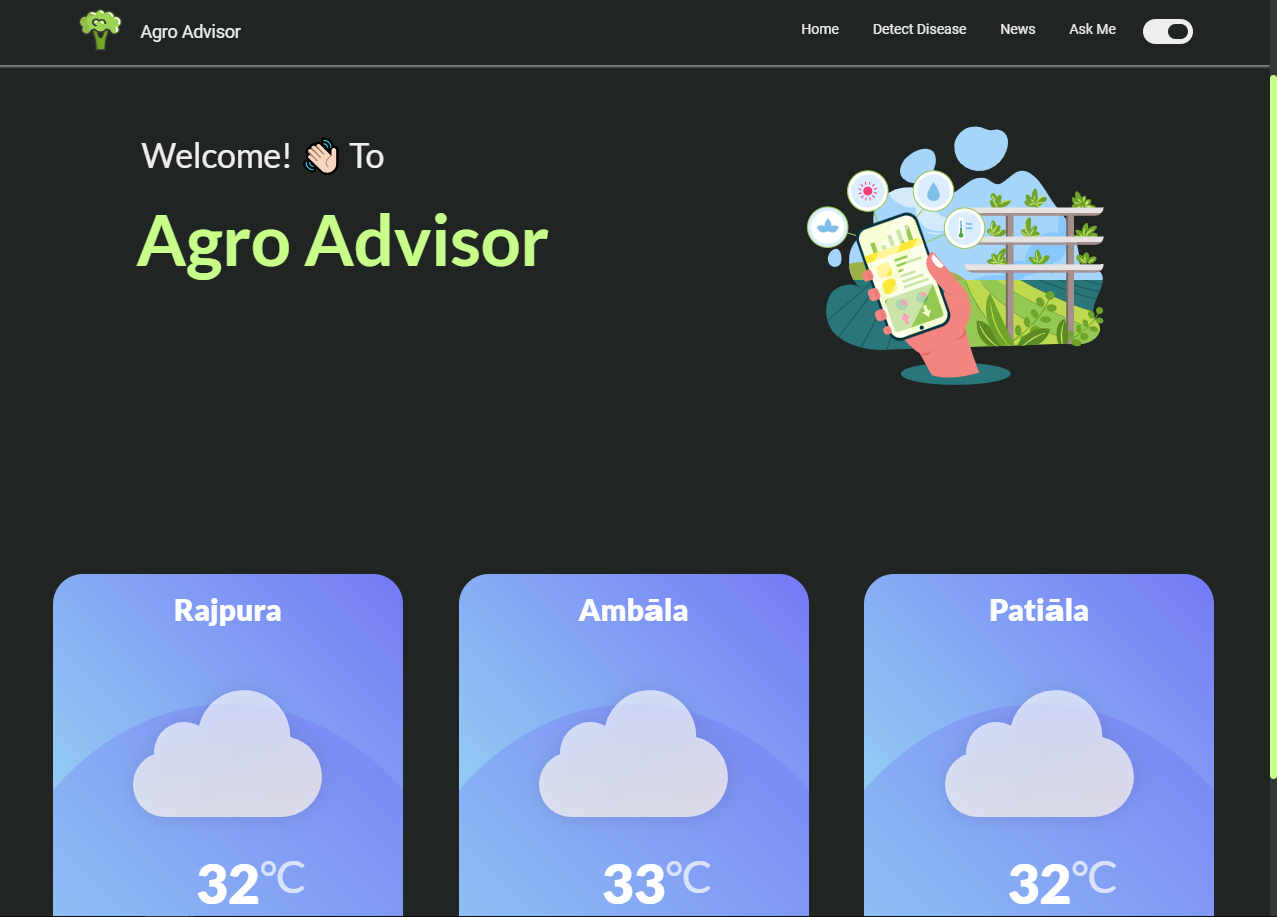
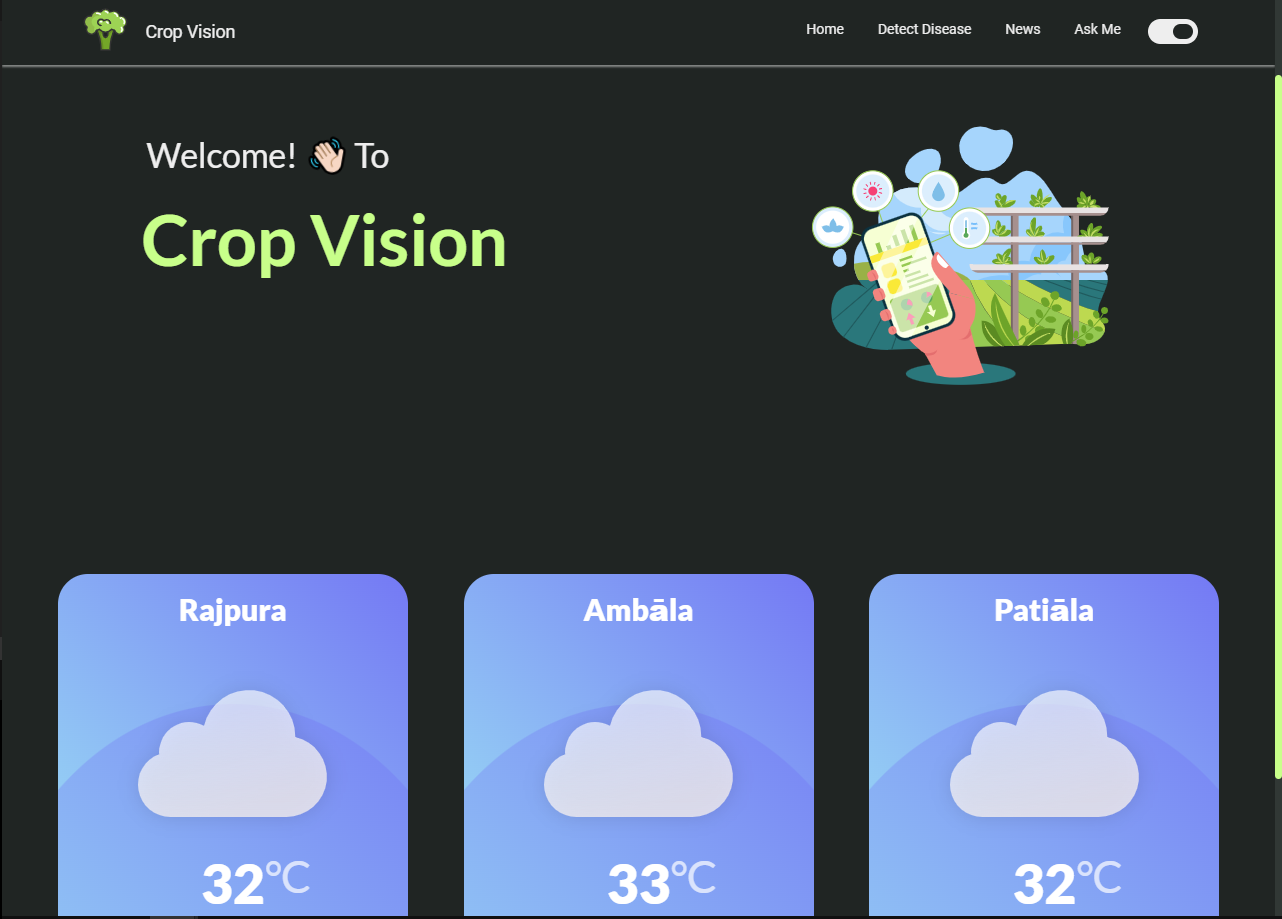
updates

diff --git a/CPR/src/components/navbar/Navbar.js b/CPR/src/components/navbar/Navbar.js
@@ -50,7 +50,7 @@ function NavBar() {
             className="img-fluid logo"
             alt="brand"
           />
-          <Nav.Link as={Link} to="/" onClick={() => updateExpanded(false)}>Agro Advisor</Nav.Link>
+          <Nav.Link as={Link} to="/" onClick={() => updateExpanded(false)}>Crop Vision</Nav.Link>
         </Navbar.Brand>
 
         <Navbar.Toggle

diff --git a/CPR/src/components/Home/Home.js b/CPR/src/components/Home/Home.js
@@ -26,7 +26,7 @@ function Home() {
               </h1>
 
               <h1 className="heading-name">
-                <strong className="main-name"> Agro Advisor</strong>
+                <strong className="main-name"> Crop Vision</strong>
               </h1>
 
               {/* <div style={{ padding: 30 }} className="type">

diff --git a/CPR/src/components/Resume/ResumeNew.js b/CPR/src/components/Resume/ResumeNew.js
@@ -71,7 +71,7 @@ function ResumeNew() {
   return (
     <div>
       <Container fluid className="resume-section">
-        <h2>AgroAdvisor</h2>
+        <h2>CropVision</h2>
         <div className="chat-container">
           <div className="messages-container">
             {messages.map((message, index) => (

diff --git a/CPR/public/index.html b/CPR/public/index.html
@@ -8,7 +8,7 @@
     href="https://cdnjs.cloudflare.com/ajax/libs/semantic-ui/2.5.0/semantic.min.css"
   />
   <link rel="manifest" href="%PUBLIC_URL%/manifest.json" />
-  <title>AgroAdvisor</title>
+  <title>CropVision</title>
   
 
   
